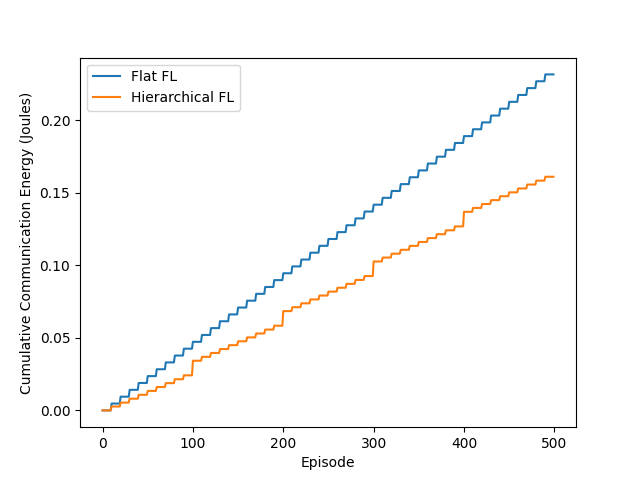
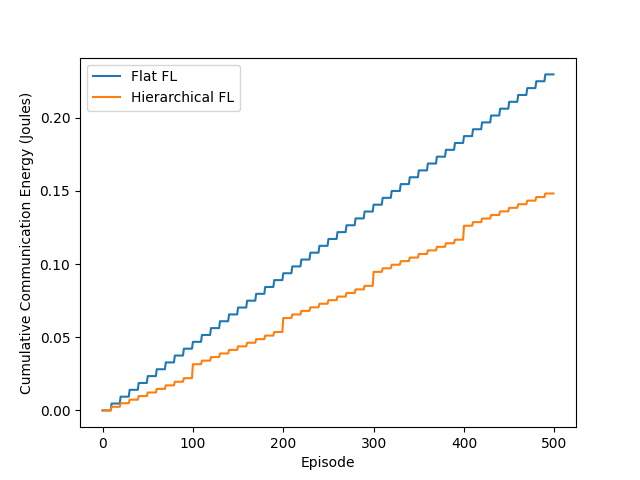
minor updates to README

diff --git a/network/hierarchy_optimizer.py b/network/hierarchy_optimizer.py
@@ -1,15 +1,16 @@
 import numpy as np
 
 class HierarchyOptimizer:
-    def __init__(self, num_devices, num_edges, area_size=100):
+    def __init__(self, num_devices, num_edges, device_positions=None, edge_positions=None, area_size=100):
         self.num_devices = num_devices
         self.num_edges = num_edges
 
-        # randomly place devices in 2D space (simulated geography)
-        self.device_positions = np.random.rand(num_devices, 2) * area_size
+        # use positions from Topology if provided, otherwise generate independently
+        self.device_positions = device_positions if device_positions is not None \
+            else np.random.rand(num_devices, 2) * area_size
 
-        # randomly place edges
-        self.edge_positions = np.random.rand(num_edges, 2) * area_size
+        self.edge_positions = edge_positions if edge_positions is not None \
+            else np.random.rand(num_edges, 2) * area_size
 
         # random channel quality per device
         self.channel_quality = np.random.rand(num_devices) + 0.1

diff --git a/trainer/hierarchical_fl_trainer.py b/trainer/hierarchical_fl_trainer.py
@@ -44,7 +44,12 @@ class HierarchicalFLTrainer:
         self.topology = Topology(self.num_devices, self.num_edges)
 
         # ---------------- Hierarchical grouping ----------------
-        self.optimizer = HierarchyOptimizer(num_devices, num_edges)
+        # pass Topology positions so grouping matches actual energy calculation
+        self.optimizer = HierarchyOptimizer(
+            num_devices, num_edges,
+            device_positions=self.topology.device_pos,
+            edge_positions=self.topology.edge_pos
+        )
         self.edge_groups = self.optimizer.build_groups()
 
         print("Optimized groups:", self.edge_groups)

diff --git a/README.md b/README.md
@@ -102,7 +102,7 @@ This is the chronological build-up of the project, reflected in git history.
 - PATGA-inspired greedy device-to-edge grouping (energy + delay cost)
 - Separate aggregation intervals for each tier (frequent edge, rare cloud)
 
-**Key limitation:** Aggregation frequency at each tier is fixed per global training round. The algorithm is greedy and static — it does not adapt to changing channel conditions or remaining energy budgets during training.
+**Key limitation:** PATGA optimizes *which path* model updates travel (the aggregation tree topology — which nodes relay, which links are used) but not *when* aggregation happens. The total number of training rounds T is a fixed input to PATGA, and aggregation runs at every round t ∈ T. Energy savings come from path selection, not from reducing aggregation frequency. There is no mechanism to decide whether a given round's aggregation is worth its communication cost, and no adaptation to convergence state or changing channel conditions during training.
 
 ---
 
@@ -145,12 +145,12 @@ Both papers share a common assumption that is never questioned:
 
 | | Paper 1 (Li et al., 2023) | Paper 2 (Li et al., 2024) |
 |---|---|---|
-| **Aggregation timing** | Fixed every N episodes | Fixed rounds per global round |
+| **Aggregation timing** | Fixed every N episodes | Fixed — aggregation runs every round T (given as input) |
+| **Aggregation path** | Flat (all→cloud) | PATGA optimizes relay tree topology per round |
 | **FL cost in RL reward** | Not included | Not applicable (no RL) |
-| **Aggregation path** | Flat (all→cloud) | Greedy PATGA (static) |
 | **Adaptation to channel** | Via offloading decision only | No runtime adaptation |
 
-**Gap 1:** Neither paper treats aggregation timing as a decision variable. Both use hardcoded intervals. There is no mechanism for the system to say "channel conditions are bad right now, defer the expensive edge→cloud aggregation."
+**Gap 1:** Neither paper treats aggregation timing as a decision variable. Paper 1 uses a hardcoded episode interval. Paper 2's PATGA optimizes which path updates travel but still runs at every training round — it never decides to skip a round. There is no mechanism for the system to say "the model hasn't diverged enough to justify the cost right now, defer this aggregation."
 
 **Gap 2:** In Paper 1, the DDQN reward optimizes only task execution cost. The energy spent uploading model parameters during FL rounds is completely invisible to the RL agent — even though it drains the same device battery and uses the same radio channel.
 
@@ -207,6 +207,21 @@ r = -(delay + task_energy + α * fl_energy_per_device_per_round)
 ```
 
 Where `fl_energy_per_device_per_round` is the wireless cost of uploading model parameters to the assigned edge server, computed from `WirelessModel` using the device's position in `Topology`. This makes the device agent aware that aggressive task offloading may deplete battery needed for FL uploads.
+
+---
+
+### The RL Analogy: Same Principle, Different Decision
+
+This contribution deliberately mirrors the structure of Paper 1:
+
+| | Paper 1 DDQN (Task Offloading) | Our DDQN (Aggregation Scheduling) |
+|---|---|---|
+| **Question answered** | Is it worth sending this task to the edge? | Is it worth aggregating models right now? |
+| **State** | [task_size, queue, channel, battery] | [reward_delta, cum_energy, channel, t_edge, t_cloud] |
+| **Action** | {local, offload} | {wait, edge-agg, cloud-agg} |
+| **Cost vs benefit** | Computation saved vs transmission energy | Convergence improvement vs FL comm energy |
+
+Paper 1's DDQN optimizes *task routing*. Our DDQN optimizes *model synchronization timing*. The same RL framework that learns where to compute now also learns when to synchronize — extending the adaptive decision-making from the task plane to the FL plane.
 
 ---
 
@@ -429,10 +444,16 @@ E_total = Σ_devices E_tx(device→edge) * num_edge_aggs
 - [ ] Add `α * fl_cost_share` term to `MECEnvironment.step()` reward
 - [ ] Add `α` as a tunable hyperparameter in `Config`
 
-#### 2c. Full PATGA (Optional — strengthens paper)
-- [ ] Implement delay-constrained iterative link replacement in `HierarchyOptimizer`
+#### 2c. Full PATGA Path Optimization (Layer 1 — strengthens paper)
+Paper 2's PATGA optimizes *which path* model updates travel. Currently we use a greedy nearest-edge assignment. Full PATGA replaces this with a delay-constrained relay tree that lets intermediate devices cooperate to reduce transmission distance.
+
+- [ ] Implement Phase 1 of PATGA in `HierarchyOptimizer`: build minimum-delay spanning tree via Dijkstra
+- [ ] Implement Phase 2: iteratively replace high-energy links with cheaper cooperative relay paths, subject to `D_max`
 - [ ] Add `D_max` as a constraint parameter in `Config`
-- [ ] Show PATGA grouping vs. greedy grouping energy comparison
+- [ ] Wire PATGA tree structure into energy calculation in `hierarchical_fl_trainer.py`
+- [ ] Compare energy: greedy grouping vs. PATGA grouping as an ablation
+
+**Relationship to contribution 1 (scheduler):** These are orthogonal. PATGA optimizes the path taken when aggregation is triggered. The scheduler DDQN optimizes when aggregation is triggered. The full AAS-HFL system uses both: PATGA picks the best path, the scheduler decides whether the round is worth doing at all.
 
 ### Phase 3 — Experiments & Ablation
 
@@ -613,5 +634,5 @@ ce-hfl-offloading/
 
 ---
 
-*Last updated: 2026-04-16*
+*Last updated: 2026-04-16 (Paper 2 limitation clarified; RL analogy section added; PATGA TODO expanded)*
 *Author: Solo researcher*
